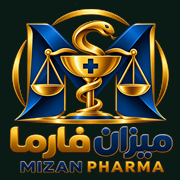
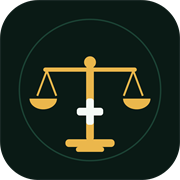
شعار ميزان فارما الجديد + إصلاح كاش PDF

diff --git a/sw.js b/sw.js
@@ -44,7 +44,7 @@ self.addEventListener("fetch", (event) => {
      مافيش أي كاش لبيانات المستخدم زي ما هو. */
   const u = new URL(event.request.url);
   if (event.request.method === "GET" && u.origin === self.location.origin &&
-    u.pathname.indexOf("/vendor/") === 0) {
+    u.pathname.indexOf("/vendor/") >= 0) {
     event.respondWith(
       (async () => {
         try {
